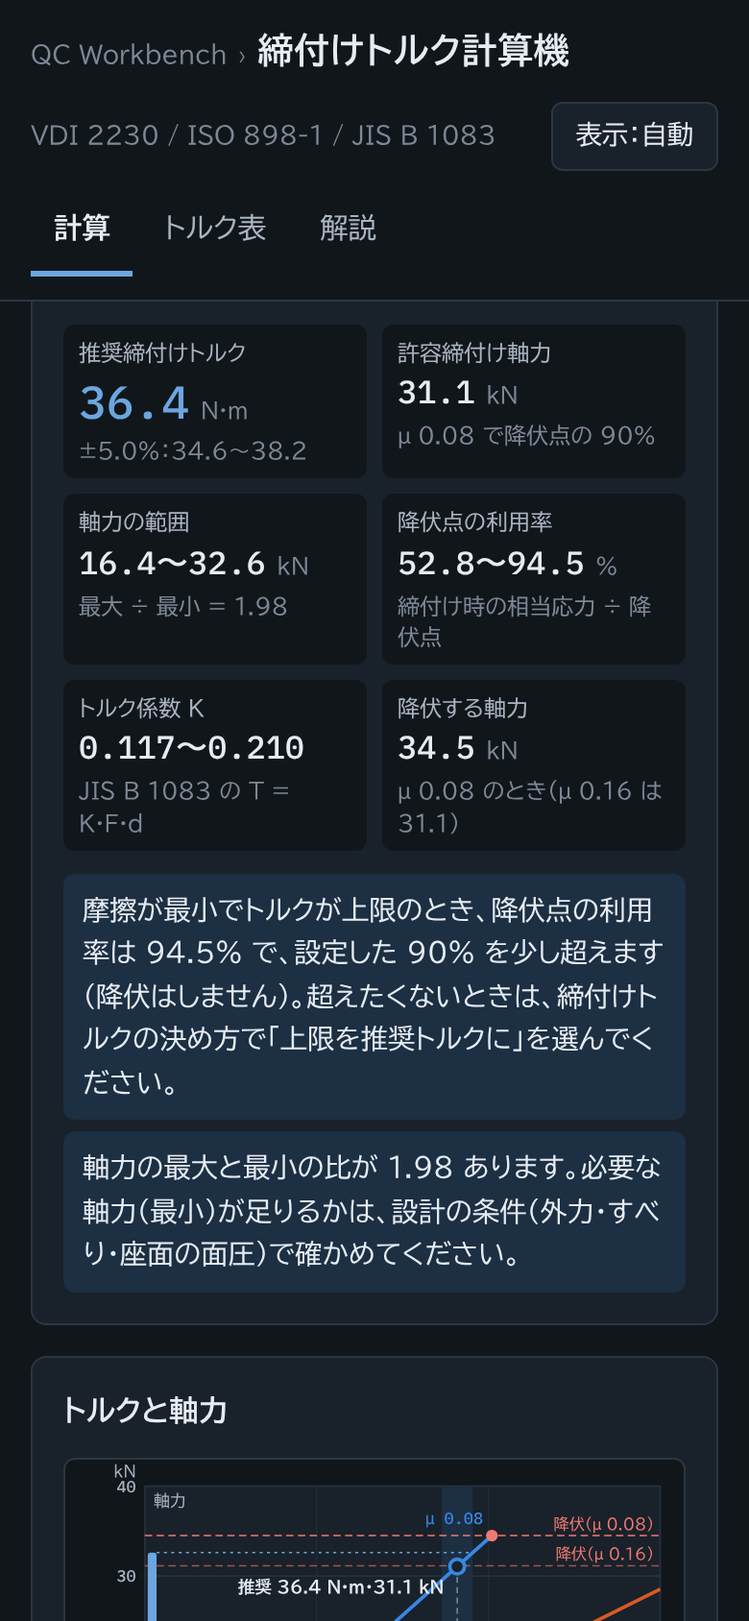
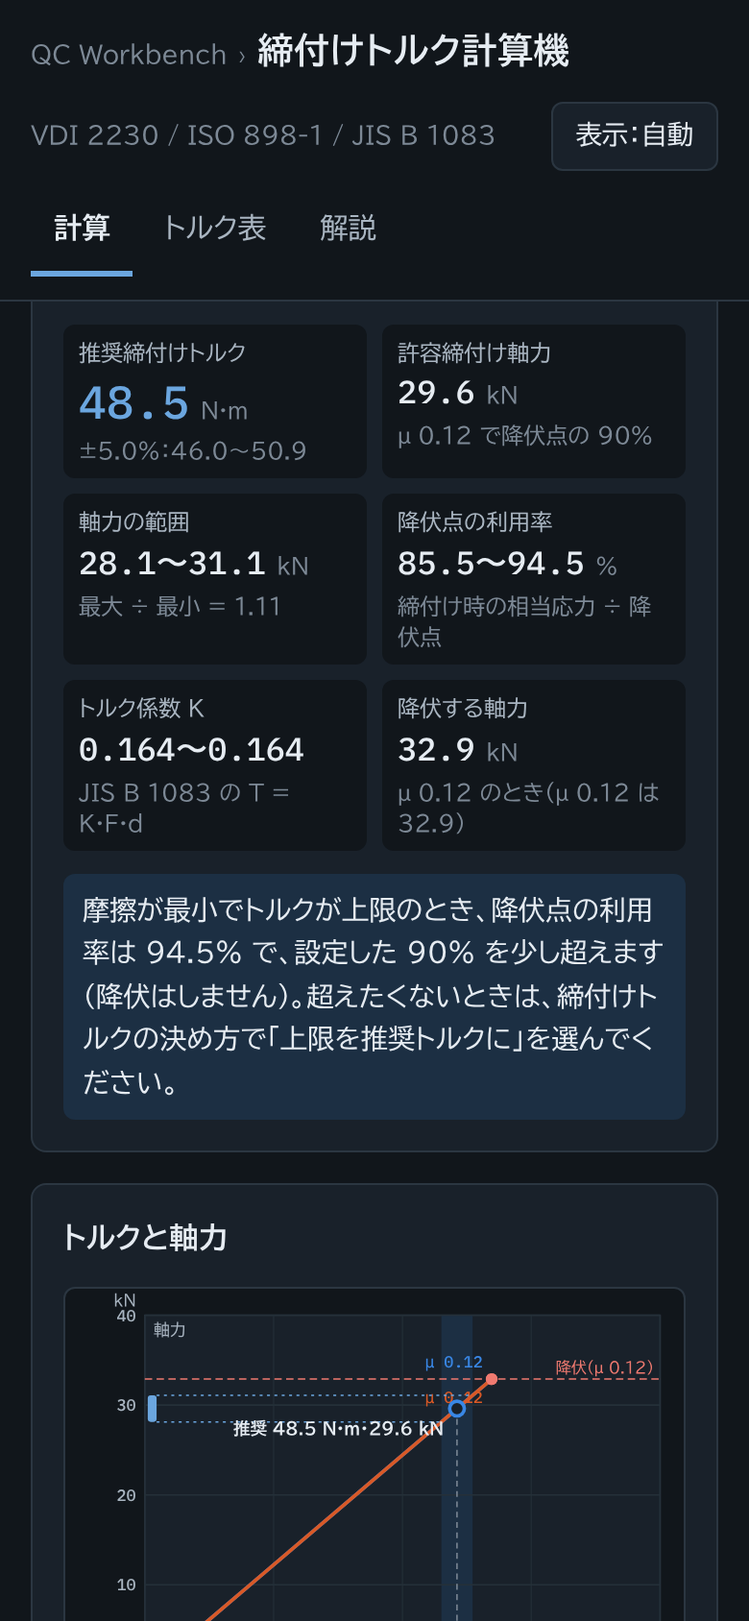
摩擦係数の初期値を 0.12 にし、kgf 表示とスマホ用の要約を足す
- 摩擦係数の初期値を一般的なトルク表と同じ 0.12 にし、範囲の下限で推奨トルクが決まることを入力欄の注記に書いた
- トルク・軸力の単位を N·m・kN、kgf·cm・kgf、kgf·m・kgf で切り替えられるようにした（計算・トルク表・図・コピー）
- スマホではねじと強度区分の直下に推奨トルクと軸力の範囲を出す

diff --git a/js/app.js b/js/app.js
@@ -13,13 +13,22 @@
   function toast(m) { const t = $('toast'); t.textContent = m; t.hidden = false; clearTimeout(toast.h); toast.h = setTimeout(() => { t.hidden = true; }, 2200); }
   const store = { get(k) { try { return JSON.parse(localStorage.getItem(k)); } catch (e) { return null; } }, set(k, v) { try { localStorage.setItem(k, JSON.stringify(v)); } catch (e) { /* 保存できない環境 */ } } };
   const KEY = 'torque-calc-inputs';
+  // 表示の単位（内部はトルク N·mm、力 N）。kgf は 1 kgf = 9.80665 N
+  const UNITS = {
+    Nm: { tq: 1 / 1000, f: 1 / 1000, uT: 'N·m', uF: 'kN' },
+    kgfcm: { tq: 1 / 98.0665, f: 1 / 9.80665, uT: 'kgf·cm', uF: 'kgf' },
+    kgfm: { tq: 1 / 9806.65, f: 1 / 9.80665, uT: 'kgf·m', uF: 'kgf' }
+  };
+  const U = () => UNITS[st.unit] || UNITS.Nm;
+  const TQ = v => v * U().tq, FZ = v => v * U().f;
   const num = s => { const t = String(s ?? '').trim().replace(/[０-９．－]/g, c => String.fromCharCode(c.charCodeAt(0) - 0xFEE0)).replace(/,/g, ''); return t === '' ? NaN : Number(t); };
 
   // ---- 状態 ----
-  const CALC_DEF = { thr: 'M10', d: '', P: '', gr: '8.8', Rp: '', head: 'hex', dw: '', hole: '1', dh: '', fr: 'B', mu0: '0.08', mu1: '0.16', nu: '90', sc: '5', mode: 'target' };
+  const CALC_DEF = { thr: 'M10', d: '', P: '', gr: '8.8', Rp: '', head: 'hex', dw: '', hole: '1', dh: '', fr: 'std', mu0: '0.12', mu1: '0.12', nu: '90', sc: '5', mode: 'target' };
   const TAB_DEF = { kind: 'M', series: 'coarse', gr: '8.8', hole: '1', nu: '90' };
   let st = store.get(KEY);
-  if (!st || !st.c || !st.t) st = { mode: 'calc', c: { ...CALC_DEF }, t: { ...TAB_DEF } };
+  if (!st || !st.c || !st.t) st = { mode: 'calc', unit: 'Nm', c: { ...CALC_DEF }, t: { ...TAB_DEF } };
+  if (!UNITS[st.unit]) st.unit = 'Nm';
   st.c = { ...CALC_DEF, ...st.c }; st.t = { ...TAB_DEF, ...st.t };
   const save = () => store.set(KEY, st);
 
@@ -36,7 +45,9 @@
   $('cThr').innerHTML = thrOpts(true);
   $('cGr').innerHTML = grOpts(true);
   $('tGr').innerHTML = grOpts(false);
-  $('cFr').innerHTML = TC.FRICTION.map(f => opt(f.id, `VDI 2230 の${f.ja}`)).join('') + opt('custom', '直接入れる');
+  // 摩擦係数の選択肢：0.12（メーカーのトルク表の多くと同じ）、VDI 2230 の区分、直接入力
+  const FR_STD = { id: 'std', lo: 0.12, hi: 0.12 };
+  $('cFr').innerHTML = opt('std', '0.12（一般的なトルク表と同じ）') + TC.FRICTION.map(f => opt(f.id, `VDI 2230 の${f.ja}`)).join('') + opt('custom', '直接入れる');
 
   // ---- 入力と状態の対応 ----
   const CALC_IN = { cThr: 'thr', cD: 'd', cP: 'P', cGr: 'gr', cRp: 'Rp', cHead: 'head', cDw: 'dw', cHole: 'hole', cDh: 'dh', cFr: 'fr', cMu0: 'mu0', cMu1: 'mu1', cNu: 'nu', cSc: 'sc' };
@@ -50,7 +61,7 @@
     if (c.hole !== 'custom') c.dh = seat ? String(seat.dh) : '';
   }
   function syncFriction() {
-    const f = TC.FRICTION.find(x => x.id === st.c.fr);
+    const f = st.c.fr === 'std' ? FR_STD : TC.FRICTION.find(x => x.id === st.c.fr);
     if (f) { st.c.mu0 = String(f.lo); st.c.mu1 = String(f.hi); }
   }
   function fillInputs() {
@@ -86,7 +97,9 @@
     tabUpd,
     segs('cMode', () => st.c.mode, v => { st.c.mode = v; }),
     segs('tKind', () => st.t.kind, v => { st.t.kind = v; }),
-    segs('tSeries', () => st.t.series, v => { st.t.series = v; })
+    segs('tSeries', () => st.t.series, v => { st.t.series = v; }),
+    segs('cUnit', () => st.unit, v => { st.unit = v; }),
+    segs('tUnit', () => st.unit, v => { st.unit = v; })
   ];
 
   // ---- SVG の共通部品 ----
@@ -130,7 +143,10 @@
     const dNow = curD();
     $('cGrNote').textContent = g ? `${g.id}：${g.note} の最小 ${fmt(g.Rp(dNow > 0 ? dNow : 10), 0)} MPa${g.mat === 'stainless' ? '（オーステナイト系）' : ''}` : '';
     const fr = TC.FRICTION.find(f => f.id === st.c.fr);
-    $('cFrNote').textContent = fr ? `例：${fr.ex}（目安）。実際の値は締付け試験（JIS B 1084）で確かめるのが確実です。` : 'ねじ面と座面の摩擦係数を同じ値として入れてください。分かっているばらつきの範囲を最小〜最大に入れます。';
+    const lowNote = '推奨トルクは摩擦係数の最小で決まるので、範囲の下限を下げるほど推奨トルクも下がります。';
+    $('cFrNote').textContent = st.c.fr === 'std'
+      ? 'メーカーのトルク表の多くは、μ を 1 つ（0.12 前後）に決めて計算しています。表面処理と潤滑で摩擦係数の範囲が分かっているときは、区分を選ぶか直接入れてください。' + lowNote
+      : fr ? `例：${fr.ex}（目安）。実際の値は締付け試験（JIS B 1084）で確かめるのが確実です。${lowNote}` : `ねじ面と座面の摩擦係数を同じ値として入れてください。分かっているばらつきの範囲を最小〜最大に入れます。${lowNote}`;
     cCopy.length = 0;
     const msgs = [];
     if (bad.size) {
@@ -139,12 +155,12 @@
       if (o.dh >= o.dw) msgs.push(['err', 'ボルト穴径が座面の径以上です。座面が当たらないので計算できません。']);
       if (st.c.head === 'hex' && !TC.seatOf(curD())) msgs.push(['err', 'この呼び径は六角ボルトの寸法を持っていません。「座面」で「径を入れる」を選び、座面の径を入れてください。']);
       if (st.c.hole !== 'custom' && !TC.seatOf(curD())) msgs.push(['err', 'この呼び径はボルト穴径の表にありません。「ボルト穴」で「径を入れる」を選び、穴径を入れてください。']);
-      showMsgs(msgs); $('cKpi').innerHTML = ''; $('cFig').innerHTML = ''; $('cSplit').innerHTML = ''; $('cRes').innerHTML = '';
+      showMsgs(msgs); $('cSum').innerHTML = ''; $('cKpi').innerHTML = ''; $('cFig').innerHTML = ''; $('cSplit').innerHTML = ''; $('cRes').innerHTML = '';
       return;
     }
     const r = TC.calc(o); res = r;
     if (r.errors.length) {
-      r.errors.forEach(e => msgs.push(['err', e])); showMsgs(msgs);
+      r.errors.forEach(e => msgs.push(['err', e])); showMsgs(msgs); $('cSum').innerHTML = '';
       $('cKpi').innerHTML = ''; $('cFig').innerHTML = ''; $('cSplit').innerHTML = ''; $('cRes').innerHTML = '';
       return;
     }
@@ -154,20 +170,32 @@
     if (g && g.mat === 'stainless' && r.muMin < 0.15) msgs.push(['info', 'ステンレスは潤滑しないとかじりやすく、摩擦係数が 0.2〜0.35 程度まで大きくなります。最小の摩擦係数が潤滑した状態の値か確かめてください。']);
     if (r.ratioF > 1.8) msgs.push(['info', `軸力の最大と最小の比が ${fmt(r.ratioF, 2)} あります。必要な軸力（最小）が足りるかは、設計の条件（外力・すべり・座面の面圧）で確かめてください。`]);
     showMsgs(msgs);
+    drawSummary(r);
     const tId = st.c.thr === 'custom' ? `M${fmt(r.g.d, r.g.d % 1 ? 1 : 0)}×${r.g.P}` : st.c.thr.replace('x', '×');
     const gId = g ? g.id : `Rp ${fmt(r.Rp, 0)} MPa`;
     $('cTitle').textContent = `推奨締付けトルク（${tId}・${gId}）`;
     const range = (a, b, d) => r.scatter > 0 ? `${fmt(a, d)}〜${fmt(b, d)}` : '';
-    const mD = r.Mnom / 1000 >= 100 ? 0 : r.Mnom / 1000 >= 10 ? 1 : 2;
+    const u = U(), mD = TQ(r.Mnom) >= 100 ? 0 : TQ(r.Mnom) >= 10 ? 1 : 2;
     $('cKpi').innerHTML = [
-      ['main', r.mode === 'upper' ? '指示するトルク（上限が推奨トルク）' : '推奨締付けトルク', `${sig(r.Mnom / 1000)}<small> N·m</small>`, r.scatter > 0 ? `±${fmt(r.scatter * 100, 1)}%：${range(r.Mmin / 1000, r.Mmax / 1000, mD)}` : 'トルクのばらつきなし'],
-      ['', '許容締付け軸力', `${sig(r.FMzul / 1000)}<small> kN</small>`, `μ ${r.muMin} で降伏点の ${fmt(r.nu * 100, 0)}%`],
-      ['', '軸力の範囲', `${sig(r.Fmin / 1000)}〜${sig(r.Fmax / 1000)}<small> kN</small>`, `最大 ÷ 最小 = ${fmt(r.ratioF, 2)}`],
+      ['main', r.mode === 'upper' ? '指示するトルク（上限が推奨トルク）' : '推奨締付けトルク', `${sig(TQ(r.Mnom))}<small> ${u.uT}</small>`, r.scatter > 0 ? `±${fmt(r.scatter * 100, 1)}%：${range(TQ(r.Mmin), TQ(r.Mmax), mD)}` : 'トルクのばらつきなし'],
+      ['', '許容締付け軸力', `${sig(FZ(r.FMzul))}<small> ${u.uF}</small>`, `μ ${r.muMin} で降伏点の ${fmt(r.nu * 100, 0)}%`],
+      ['', '軸力の範囲', `${sig(FZ(r.Fmin))}〜${sig(FZ(r.Fmax))}<small> ${u.uF}</small>`, `最大 ÷ 最小 = ${fmt(r.ratioF, 2)}`],
       [r.useMax > 1 ? 'ng' : '', '降伏点の利用率', `${pct(r.useMin)}〜${pct(r.useMax)}<small> %</small>`, '締付け時の相当応力 ÷ 降伏点'],
       ['', 'トルク係数 K', `${fmt(r.Kmin, 3)}〜${fmt(r.Kmax, 3)}`, 'JIS B 1083 の T = K·F·d'],
-      ['', '降伏する軸力', `${sig(r.FyMin / 1000)}<small> kN</small>`, `μ ${r.muMin} のとき（μ ${r.muMax} は ${sig(r.FyMax / 1000)}）`]
+      ['', '降伏する軸力', `${sig(FZ(r.FyMin))}<small> ${u.uF}</small>`, `μ ${r.muMin} のとき（μ ${r.muMax} は ${sig(FZ(r.FyMax))}）`]
     ].map(([cls, lab, val, sub]) => `<div class="${cls}"><span>${esc(lab)}</span><b>${val}</b><small>${esc(sub)}</small></div>`).join('');
     drawCurve(r); drawSplit(r); drawResTable(r, tId, gId);
+  }
+
+  // スマホ用の要約（狭い画面で、ねじと強度区分の直下に推奨トルクを出す）
+  function drawSummary(r) {
+    const u = U(), d = TQ(r.Mnom) >= 100 ? 0 : TQ(r.Mnom) >= 10 ? 1 : 2;
+    $('cSum').innerHTML = `<span class="lab">${r.mode === 'upper' ? '指示するトルク' : '推奨締付けトルク'}</span>` +
+      `<b>${esc(sig(TQ(r.Mnom)))}<small> ${esc(u.uT)}</small></b>` +
+      `<span class="sub">${r.scatter > 0 ? `±${fmt(r.scatter * 100, 1)}%：${fmt(TQ(r.Mmin), d)}〜${fmt(TQ(r.Mmax), d)}・` : ''}軸力 ${esc(sig(FZ(r.Fmin)))}〜${esc(sig(FZ(r.Fmax)))} ${esc(u.uF)}</span>` +
+      `<a href="#cKpi" class="more">詳しい結果へ</a>`;
+    const a = $('cSum').querySelector('.more');
+    a.addEventListener('click', e => { e.preventDefault(); const y = $('cKpi').getBoundingClientRect().top + scrollY - document.querySelector('header.top').offsetHeight - 60; window.scrollTo({ top: y, behavior: 'smooth' }); });
   }
 
   function showMsgs(list) {
@@ -178,7 +206,7 @@
   function drawCurve(r) {
     const el = $('cFig'), narrow = el.clientWidth && el.clientWidth < 480;
     const W = narrow ? 420 : 600, H = narrow ? 300 : 320, L = 54, R = 16, T = 18, Bm = 38;
-    const kN = v => v / 1000, Nm = v => v / 1000;
+    const kN = FZ, Nm = TQ, toNmm = v => v / U().tq, u = U();
     const xmaxRaw = Nm(r.Mmax) * 1.35, yt0 = niceTicks(0, kN(r.FyMin) * 1.12, 5), xt0 = niceTicks(0, xmaxRaw, 5);
     const xmax = xt0.t[xt0.t.length - 1] < xmaxRaw ? xt0.t[xt0.t.length - 1] + xt0.step : xt0.t[xt0.t.length - 1];
     const ymaxRaw = kN(r.FyMin) * 1.12, ymax = yt0.t[yt0.t.length - 1] < ymaxRaw ? yt0.t[yt0.t.length - 1] + yt0.step : yt0.t[yt0.t.length - 1];
@@ -191,8 +219,8 @@
     // 目盛り
     niceTicks(0, ymax, 5).t.forEach(v => { const y = Y(v); s += `<line x1="${L}" x2="${W - R}" y1="${y}" y2="${y}" stroke="${gr}"/><text x="${L - 6}" y="${y + 4}" font-size="11" fill="${ink2}" text-anchor="end" font-family="${nf}">${esc(fmt(v, tickD(yt0.step)))}</text>`; });
     niceTicks(0, xmax, 5).t.forEach(v => { const x = X(v); s += `<line x1="${x}" x2="${x}" y1="${T}" y2="${H - Bm}" stroke="${gr}" stroke-opacity=".7"/><text x="${x}" y="${H - Bm + 15}" font-size="11" fill="${ink2}" text-anchor="middle" font-family="${nf}">${esc(fmt(v, tickD(xt0.step)))}</text>`; });
-    s += `<text x="${L - 6}" y="12" font-size="10.5" fill="${ink2}" text-anchor="end">kN</text>`;
-    s += `<text x="${W - R}" y="${H - 4}" font-size="11" fill="${ink2}" text-anchor="end">締付けトルク [N·m]</text>`;
+    s += `<text x="${L - 6}" y="12" font-size="10.5" fill="${ink2}" text-anchor="end">${esc(u.uF)}</text>`;
+    s += `<text x="${W - R}" y="${H - 4}" font-size="11" fill="${ink2}" text-anchor="end">締付けトルク [${esc(u.uT)}]</text>`;
     s += `<text x="${L + 6}" y="${T + 14}" font-size="11" fill="${ink2}">軸力</text>`;
     // 降伏する軸力（摩擦が最小・最大で値が違う）
     [[r.FyMin, r.muMin], [r.FyMax, r.muMax]].forEach(([F, m], i) => {
@@ -204,11 +232,11 @@
     // トルクと軸力の線（降伏する軸力で止める）
     [[r.muMin, '--s1'], [r.muMax, '--s2']].forEach(([m, c]) => {
       const Fy = kN(r.Fy(m)), Mend = Math.min(xmax, Nm(r.M(r.Fy(m), m)));
-      const Fend = kN(r.F(Mend * 1000, m));
+      const Fend = kN(r.F(toNmm(Mend), m));
       s += `<line x1="${X(0)}" y1="${Y(0)}" x2="${X(Mend)}" y2="${Y(Fend)}" stroke="${css(c)}" stroke-width="2.4"/>`;
       if (Fend >= Fy - 1e-6) s += `<circle cx="${X(Mend)}" cy="${Y(Fend)}" r="4" fill="${ng}"/>`;
       // 線の名前（右端の少し手前）
-      const xl = Math.min(Mend, xmax * 0.92), yl = kN(r.F(xl * 1000, m));
+      const xl = Math.min(Mend, xmax * 0.92), yl = kN(r.F(toNmm(xl), m));
       s += `<text x="${X(xl) - 6}" y="${Y(yl) + (c === '--s1' ? -8 : 16)}" font-size="11" fill="${css(c)}" text-anchor="end" font-family="${nf}">μ ${m}</text>`;
     });
     // 軸力の範囲（縦の帯と線が交わるところ）を左の目盛りの横に示す
@@ -221,7 +249,7 @@
     s += `<line x1="${xa}" x2="${xa}" y1="${ya}" y2="${H - Bm}" stroke="${mut}" stroke-dasharray="4 3"/>`;
     s += `<circle cx="${xa}" cy="${ya}" r="5" fill="${css('--surface')}" stroke="${css('--s1')}" stroke-width="2.4"/>`;
     const right = xa < W - 190;
-    s += `<text x="${xa + (right ? 9 : -9)}" y="${ya + 18}" font-size="11.5" font-weight="700" fill="${ink}" text-anchor="${right ? 'start' : 'end'}">推奨 ${esc(sig(Nm(r.MA)))} N·m・${esc(sig(kN(r.FMzul)))} kN</text>`;
+    s += `<text x="${xa + (right ? 9 : -9)}" y="${ya + 18}" font-size="11.5" font-weight="700" fill="${ink}" text-anchor="${right ? 'start' : 'end'}">推奨 ${esc(sig(Nm(r.MA)))} ${esc(u.uT)}・${esc(sig(kN(r.FMzul)))} ${esc(u.uF)}</text>`;
     el.innerHTML = s + '</svg>';
   }
 
@@ -247,6 +275,7 @@
 
   // 結果の表
   function drawResTable(r, tId, gId) {
+    const u = U(), t2 = v => fmt(TQ(v), st.unit === 'kgfm' ? 3 : 2), f2 = v => fmt(FZ(v), st.unit === 'Nm' ? 2 : 0);
     const rows = [
       ['ねじ', `${tId}`, '', `ピッチ ${r.g.P} mm`],
       ['強度区分', gId, '', `降伏点 ${fmt(r.Rp, 0)} MPa`],
@@ -255,13 +284,13 @@
       ['座面の摩擦の有効径 DKm', fmt(r.DKm, 2), 'mm', `(dw ${r.dw} + dh ${r.dh}) ÷ 2`],
       ['摩擦係数 μ', `${r.muMin}〜${r.muMax}`, '', 'ねじ面 = 座面'],
       ['降伏点の利用率 ν', fmt(r.nu * 100, 0), '%', ''],
-      ['推奨締付けトルク MA', fmt(r.MA / 1000, 2), 'N·m', `μ ${r.muMin} で許容締付け軸力になるトルク`],
-      ['指示するトルク', fmt(r.Mnom / 1000, 2), 'N·m', r.mode === 'upper' ? '上限を MA にした狙い値' : 'MA を狙い値'],
-      ['トルクの範囲', `${fmt(r.Mmin / 1000, 2)}〜${fmt(r.Mmax / 1000, 2)}`, 'N·m', `±${fmt(r.scatter * 100, 1)}%`],
-      ['許容締付け軸力 FMzul', fmt(r.FMzul / 1000, 2), 'kN', ''],
-      ['軸力の範囲', `${fmt(r.Fmin / 1000, 2)}〜${fmt(r.Fmax / 1000, 2)}`, 'kN', `最大 ÷ 最小 ${fmt(r.ratioF, 2)}`],
+      ['推奨締付けトルク MA', t2(r.MA), u.uT, `μ ${r.muMin} で許容締付け軸力になるトルク`],
+      ['指示するトルク', t2(r.Mnom), u.uT, r.mode === 'upper' ? '上限を MA にした狙い値' : 'MA を狙い値'],
+      ['トルクの範囲', `${t2(r.Mmin)}〜${t2(r.Mmax)}`, u.uT, `±${fmt(r.scatter * 100, 1)}%`],
+      ['許容締付け軸力 FMzul', f2(r.FMzul), u.uF, ''],
+      ['軸力の範囲', `${f2(r.Fmin)}〜${f2(r.Fmax)}`, u.uF, `最大 ÷ 最小 ${fmt(r.ratioF, 2)}`],
       ['降伏点の利用率', `${pct(r.useMin)}〜${pct(r.useMax)}`, '%', ''],
-      ['降伏する軸力', `${fmt(r.FyMin / 1000, 2)}〜${fmt(r.FyMax / 1000, 2)}`, 'kN', `μ ${r.muMin}〜${r.muMax}`],
+      ['降伏する軸力', `${f2(r.FyMin)}〜${f2(r.FyMax)}`, u.uF, `μ ${r.muMin}〜${r.muMax}`],
       ['トルク係数 K', `${fmt(r.Kmin, 3)}〜${fmt(r.Kmax, 3)}`, '', 'JIS B 1083']
     ];
     $('cRes').innerHTML = `<table class="res"><tbody>${rows.map(([a, b, u, n]) => `<tr><th>${esc(a)}${n ? `<small>${esc(n)}</small>` : ''}</th><td>${esc(b)}${u ? `<span class="u">${esc(u)}</span>` : ''}</td></tr>`).join('')}</tbody></table>`;
@@ -277,19 +306,20 @@
     const nuBad = !(nu > 0 && nu <= 1);
     $('tNu').classList.toggle('bad', nuBad);
     const g = TC.findGrade(t.gr);
-    $('tTitle').textContent = `トルク表（${g.id}・${t.kind === 'M' ? '締付けトルク N·m' : '締付け軸力 kN'}）`;
+    const u = U();
+    $('tTitle').textContent = `トルク表（${g.id}・${t.kind === 'M' ? '締付けトルク ' + u.uT : '締付け軸力 ' + u.uF}）`;
     tCopy.length = 0;
     if (nuBad) { $('tTable').innerHTML = '<div class="msg err">× 降伏点の利用率は 0 を超え 100 以下で入れてください。</div>'; return; }
     const list = TC.THREADS.filter(x => x.coarse === (t.series === 'coarse'));
     const head = ['ねじ', ...MUS.map(m => `μ ${m.toFixed(2)}`)];
-    tCopy.push([`${g.id}・${t.kind === 'M' ? '締付けトルク [N·m]' : '締付け軸力 [kN]'}・ν ${fmt(nu * 100, 0)}%・ボルト穴 ${['1級', '2級', '3級'][+t.hole]}`]);
+    tCopy.push([`${g.id}・${t.kind === 'M' ? `締付けトルク [${u.uT}]` : `締付け軸力 [${u.uF}]`}・ν ${fmt(nu * 100, 0)}%・ボルト穴 ${['1級', '2級', '3級'][+t.hole]}`]);
     tCopy.push(head);
     const body = list.map(x => {
       const seat = TC.seatOf(x.d, +t.hole);
       const out = g.dMax && x.d > g.dMax;
       const vals = MUS.map(m => {
         const r = TC.calc({ thread: x.id, grade: g.id, mu: [m, m], nu, dw: seat.dw, dh: seat.dh });
-        return r.errors.length ? NaN : (t.kind === 'M' ? r.MA : r.FMzul) / 1000;
+        return r.errors.length ? NaN : (t.kind === 'M' ? TQ(r.MA) : FZ(r.FMzul));
       });
       tCopy.push([x.id, ...vals.map(v => sig(v).replace(/,/g, ''))]);
       const cur = st.c.thr === x.id ? ' class="cur"' : '';

diff --git a/index.html b/index.html
@@ -176,6 +176,16 @@ table.tq tbody tr.cur { background: var(--accent-weak); }
 table.tq td.na { color: var(--muted); }
 .kpi .main { grid-column: span 1; }
 .kpi .main b { font-size: 1.5rem; color: var(--accent); }
+/* スマホ用の要約：狭い画面だけ、入力の途中に推奨トルクを出す */
+.sum { display: none; }
+@media (max-width: 760px) {
+  .sum:not(:empty) { display: grid; grid-template-columns: 1fr auto; align-items: baseline; gap: 2px 12px; background: var(--accent-weak); border: 1px solid var(--line); border-radius: var(--r); padding: 12px 16px; }
+  .sum .lab { grid-column: 1 / -1; font-size: .78rem; color: var(--ink2); }
+  .sum b { font: 500 1.6rem var(--f-num); color: var(--accent); font-variant-numeric: tabular-nums; }
+  .sum b small { font-family: var(--f-ui); font-size: .8rem; color: var(--muted); }
+  .sum .sub { grid-column: 1 / -1; font-size: .8rem; color: var(--ink2); }
+  .sum .more { grid-row: 2; grid-column: 2; font-size: .82rem; color: var(--accent); }
+}
 .kpi > div > small { display: block; line-height: 1.4; margin-top: 2px; }
 .kpi b small { font-family: var(--f-ui); font-size: .72rem; color: var(--muted); margin-left: 2px; }
 
@@ -217,6 +227,7 @@ table.tq td.na { color: var(--muted); }
         </div>
         <p class="privacy">データはこの端末の中だけで計算し、外部に送信しません。入力は自動でこの端末に保存します。</p>
       </div>
+      <div class="sum" id="cSum" aria-live="polite"></div>
       <div class="box">
         <h2>座面とボルト穴</h2>
         <div class="fields">
@@ -246,7 +257,10 @@ table.tq td.na { color: var(--muted); }
     </div>
     <div class="col">
       <div class="box">
-        <h2 id="cTitle">推奨締付けトルク</h2>
+        <div class="row" style="justify-content:space-between">
+          <h2 id="cTitle">推奨締付けトルク</h2>
+          <div class="seg" id="cUnit" role="group" aria-label="単位"><button type="button" data-v="Nm" aria-pressed="true">N·m・kN</button><button type="button" data-v="kgfcm" aria-pressed="false">kgf·cm</button><button type="button" data-v="kgfm" aria-pressed="false">kgf·m</button></div>
+        </div>
         <div class="kpi" id="cKpi"></div>
         <div class="msgs" id="cMsgs"></div>
       </div>
@@ -277,8 +291,9 @@ table.tq td.na { color: var(--muted); }
         <div class="row" style="justify-content:space-between">
           <h2 id="tTitle">トルク表</h2>
           <div class="row">
-            <div class="seg" id="tKind" role="group" aria-label="表に出す値"><button type="button" data-v="M" aria-pressed="true">締付けトルク [N·m]</button><button type="button" data-v="F" aria-pressed="false">締付け軸力 [kN]</button></div>
+            <div class="seg" id="tKind" role="group" aria-label="表に出す値"><button type="button" data-v="M" aria-pressed="true">締付けトルク</button><button type="button" data-v="F" aria-pressed="false">締付け軸力</button></div>
             <div class="seg" id="tSeries" role="group" aria-label="ねじの種類"><button type="button" data-v="coarse" aria-pressed="true">並目</button><button type="button" data-v="fine" aria-pressed="false">細目</button></div>
+            <div class="seg" id="tUnit" role="group" aria-label="単位"><button type="button" data-v="Nm" aria-pressed="true">N·m・kN</button><button type="button" data-v="kgfcm" aria-pressed="false">kgf·cm</button><button type="button" data-v="kgfm" aria-pressed="false">kgf·m</button></div>
           </div>
         </div>
         <div class="fields three">
@@ -287,7 +302,7 @@ table.tq td.na { color: var(--muted); }
           <div class="field"><label for="tNu">降伏点の利用率 ν [%]</label><input type="text" id="tNu" inputmode="decimal"></div>
         </div>
         <div class="scroll" id="tTable"></div>
-        <p class="hint">六角ボルト（ISO 4014・4017）の座面で、ねじ面と座面の摩擦係数を同じ値（列の μ）にしたときの値です。行を押すと、そのねじで「計算」タブを開きます。</p>
+        <p class="hint">六角ボルト（ISO 4014・4017）の座面で、ねじ面と座面の摩擦係数を同じ値（列の μ）にしたときの値です。kgf は 1 kgf = 9.80665 N で換算しています。行を押すと、そのねじで「計算」タブを開きます。</p>
         <div class="row"><button class="btn" type="button" id="tCopy">表をコピー（Excel 用）</button></div>
       </div>
     </div>
@@ -304,6 +319,7 @@ table.tq td.na { color: var(--muted); }
 <li>摩擦係数が最小のとき、締付けで生じる引張り応力とねじり応力を合わせた相当応力が、降伏点の ν 倍になる軸力を求めます。これが<strong>許容締付け軸力</strong> FMzul です</li>
 <li>摩擦係数が最小のまま、FMzul を出すのに必要なトルクを求めます。これが<strong>推奨締付けトルク</strong> MA です</li>
 </ol>
+<p>摩擦係数の初期値 0.12 は、メーカーのトルク表の多くと同じ「μ を 1 つに決めた」値です。範囲を入れると推奨トルクは最小の μ で決まるので、範囲の下限を下げるほど推奨トルクも下がります。</p>
 <p>摩擦係数の最小で決めるのは、同じトルクでも摩擦が小さいほど軸力が大きくなり、降伏に近づくからです。摩擦が大きい側では、同じトルクで軸力が小さくなります（下の「軸力の範囲」）。</p>
 <h3>許容締付け軸力</h3>
 <pre><code>FMzul = As × ν × Rp ÷ √(1 + 3 × [1.5 × (d2 ÷ dS) × (P ÷ (π × d2) + 1.155 × μG)]²)
@@ -379,6 +395,8 @@ table.tq td.na { color: var(--muted); }
 <li><strong>上限を推奨トルクに</strong>：狙い値を MA ÷（1 + ばらつき）に下げます。上にばらついても ν を超えませんが、軸力の下限も下がります</li>
 </ul>
 <p>トルクのばらつきは、締付け工具の精度（トルクレンチの JIS B 4650 / ISO 6789 の許容差、ナットランナーの工程能力）を入れてください。</p>
+<h2>単位</h2>
+<p>トルクは N·m・kgf·cm・kgf·m、軸力は kN・kgf で表示できます。1 kgf = 9.80665 N で換算しています（1 kgf·m = 9.80665 N·m、1 kgf·cm = 0.0980665 N·m）。</p>
 <h2>強度区分と降伏点</h2>
 <table>
 <thead>

diff --git a/sw.js b/sw.js
@@ -1,6 +1,6 @@
 // 締付けトルク計算機の Service Worker
 // 公開ファイルを更新したら VERSION を上げる。古いキャッシュは activate 時に削除される
-const VERSION = 'v1.0.0';
+const VERSION = 'v1.1.0';
 const APP_CACHE = `torque-calc-${VERSION}`;
 const FONT_CACHE = 'torque-calc-fonts';
 

diff --git a/README.md b/README.md
@@ -8,7 +8,7 @@
 
 - **データは外に出ません**。計算はすべてブラウザの中で行い、どこにも送信しません
 - 画面の字体（BIZ UDPゴシック・IBM Plex Mono）は Google Fonts から読み込むため、開いたときに Google のサーバーへ接続します。入力したデータは送りません
-- 一度開けば**オフラインでも動きます**。スマートフォンやPCにアプリとして追加することもできます
+- 一度開けば**オフラインでも動きます**。スマートフォンやPCにアプリとして追加することもできます。スマートフォンでは、ねじと強度区分のすぐ下に推奨トルクを表示します
 
 ![計算の画面](docs/screenshots/main.png)
 
@@ -20,7 +20,7 @@
 
 1. **ボルトを選ぶ**：ねじ（並目 M3〜M39、細目 16 種、または呼び径とピッチを入力）と強度区分（鋼 4.6〜12.9、ステンレス A2・A4-50／70／80、または降伏点を入力）
 2. **座面とボルト穴**：六角ボルト（ISO 4014・4017）の座面の径と、JIS B 1001 のボルト穴径（1〜3 級）が自動で入ります。六角穴付きボルト・フランジ付きボルトなどは径を入れます
-3. **摩擦係数**：VDI 2230 の区分（A〜D）から選ぶか、最小〜最大を直接入れます
+3. **摩擦係数**：初期値は 0.12（一般的なトルク表と同じ）です。VDI 2230 の区分（A〜D）から選ぶか、最小〜最大を直接入れることもできます
 4. **締付けの条件**：降伏点の利用率 ν（初期値 90%）と、締付け工具のトルクのばらつき（初期値 ±5%）を入れます
 
 | 出力 | 内容 |
@@ -31,6 +31,7 @@
 | 降伏点の利用率 | 軸力が最小・最大のときの、締付け時の相当応力 ÷ 降伏点 |
 | トルク係数 K | JIS B 1083 の T = K·F·d の K |
 | 図 | トルクと軸力の関係（摩擦が最小・最大の 2 本の線、降伏する軸力、トルクの範囲）、トルクの内訳（軸力になる分・ねじ面の摩擦・座面の摩擦） |
+| 単位 | N·m・kN、kgf·cm・kgf、kgf·m・kgf を切り替えられます（1 kgf = 9.80665 N） |
 | 保存 | 結果を Excel 用にコピー |
 
 ### トルク表

diff --git a/docs/explanation.md b/docs/explanation.md
@@ -7,6 +7,8 @@
 1. 摩擦係数が最小のとき、締付けで生じる引張り応力とねじり応力を合わせた相当応力が、降伏点の ν 倍になる軸力を求めます。これが**許容締付け軸力** FMzul です
 2. 摩擦係数が最小のまま、FMzul を出すのに必要なトルクを求めます。これが**推奨締付けトルク** MA です
 
+摩擦係数の初期値 0.12 は、メーカーのトルク表の多くと同じ「μ を 1 つに決めた」値です。範囲を入れると推奨トルクは最小の μ で決まるので、範囲の下限を下げるほど推奨トルクも下がります。
+
 摩擦係数の最小で決めるのは、同じトルクでも摩擦が小さいほど軸力が大きくなり、降伏に近づくからです。摩擦が大きい側では、同じトルクで軸力が小さくなります（下の「軸力の範囲」）。
 
 ### 許容締付け軸力
@@ -64,6 +66,10 @@ JIS B 1083 のトルク係数 K = T ÷（F × d）は、この式の括弧の中
 - **上限を推奨トルクに**：狙い値を MA ÷（1 + ばらつき）に下げます。上にばらついても ν を超えませんが、軸力の下限も下がります
 
 トルクのばらつきは、締付け工具の精度（トルクレンチの JIS B 4650 / ISO 6789 の許容差、ナットランナーの工程能力）を入れてください。
+
+## 単位
+
+トルクは N·m・kgf·cm・kgf·m、軸力は kN・kgf で表示できます。1 kgf = 9.80665 N で換算しています（1 kgf·m = 9.80665 N·m、1 kgf·cm = 0.0980665 N·m）。
 
 ## 強度区分と降伏点
 

diff --git a/DEVELOPMENT.md b/DEVELOPMENT.md
@@ -42,5 +42,7 @@ node tests/test.js    # 不一致があれば終了コード 1
 - **トルクの範囲**：`target` は MA × (1 ± ばらつき)、`upper` は MA ÷ (1 + ばらつき) を狙い値にして上限を MA に合わせます。軸力の最大はトルクの上限・摩擦の最小、最小はトルクの下限・摩擦の最大
 - **注意の出し方**：利用率が ν を超えて 100% 以下なら案内（`infos`）、100% を超えたら注意（`warns`）
 - **強度区分の径の上限**：9.8 は 16 mm 以下、ステンレスの -70・-80 は 24 mm 以下、-50 は 39 mm 以下（`dMax`）。超えると注意を出し、トルク表では灰色にします
+- **表示の単位**：`st.unit`（`Nm`・`kgfcm`・`kgfm`）。内部の値に `UNITS` の係数を掛けて表示するだけで、計算は SI のまま
+- **スマホ用の要約**：`#cSum`。760 px 以下だけ表示し、ねじと強度区分の直下に推奨トルクと軸力の範囲を出します
 - **入力の保存**：localStorage のキー `torque-calc-inputs`。読み書きはすべて try/catch で囲み、保存できない環境でも動きます
 - **テーマ**：QC Workbench の全ツールで共通のキー `qc-workbench-theme`
